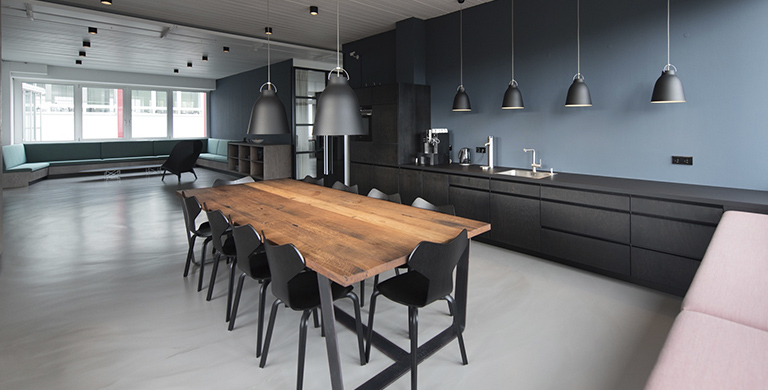
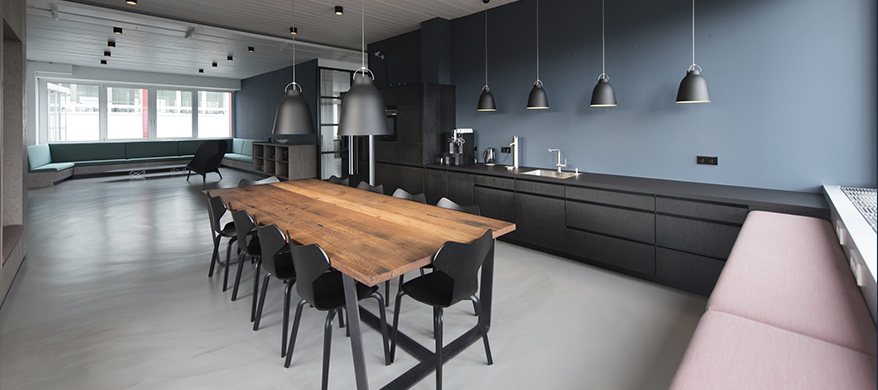
Блок услуги, мобильная версия

diff --git a/source/index.html b/source/index.html
@@ -180,28 +180,40 @@
     <section class="service">
       <h2 class="service-title section-title">Наши услуги</h2>
       <div class="service-slider">
-        <ul class="service-slider__buttons">
-          <li class="service-slider__button">Дизайн жилого помещения</li>
-          <li class="service-slider__button">Дизайн отельных комнат</li>
-          <li class="service-slider__button service-slider__button--active">Дизайн коммерческих
+        <ul class="service-slider__switch-buttons">
+          <li class="service-slider__switch-button">Дизайн жилого помещения</li>
+          <li class="service-slider__switch-button">Дизайн отельных комнат</li>
+          <li class="service-slider__switch-button service-slider__switch-button--active">Дизайн коммерческих
             объектов</li>
-          <li class="service-slider__button">Ремонт под ключ</li>
-          <li class="service-slider__button">Отделочные работы</li>
-          <li class="service-slider__button">Выезд дизайнера на дом</li>
+          <li class="service-slider__switch-button">Ремонт под ключ</li>
+          <li class="service-slider__switch-button">Отделочные работы</li>
+          <li class="service-slider__switch-button">Выезд дизайнера на дом</li>
         </ul>
         <div class="service-slider__slide">
-          <picture>
-            <source type="image/webp" media="(min-width: 1360px)" srcset="img/service-slide-desktop.webp">
-            <source type="image/webp" media="(min-width: 768px)" srcset="img/service-slide-tablet.webp">
-            <source type="image/webp" srcset="img/service-slide-mobile.webp">
+          <!-- <div class="service-slider__image-container">
+            <picture>
+              <source type="image/webp" media="(min-width: 1360px)" srcset="img/service-slide-desktop.webp">
+              <source type="image/webp" media="(min-width: 768px)" srcset="img/service-slide-tablet.webp">
+              <source type="image/webp" srcset="img/service-slide-mobile.webp">
 
-            <source media="(min-width: 1360px)" srcset="img/service-slide-desktop.jpg">
-            <source media="(min-width: 768px)" srcset="img/service-slide-tablet.jpg">
-            <img class="service-slider__image" src="img/service-slide-mobile.jpg" alt="Дизайн коммерческих
-            объектов">
-          </picture>
+              <source media="(min-width: 1360px)" srcset="img/service-slide-desktop.jpg">
+              <source media="(min-width: 768px)" srcset="img/service-slide-tablet.jpg">
+              <img class="service-slider__image" src="img/service-slide-mobile.jpg" alt="Дизайн коммерческих
+              объектов">
+            </picture>
+          </div> -->
+          <div class="service-slider__image-container">
+            <picture>
+              <source type="image/webp" media="(min-width: 1360px)" srcset="img/service-slide-desktop.webp">
+              <source type="image/webp" srcset="img/service-slide-tablet.webp">
+
+              <source media="(min-width: 1360px)" srcset="img/service-slide-desktop.jpg">
+              <img class="service-slider__image" src="img/service-slide-tablet.jpg" alt="Дизайн коммерческих
+              объектов">
+            </picture>
+          </div>
           <h3 class="service-slider__title">Дизайн коммерческих обьектов</h3>
-          <p class="service-slider__text">Работая с коммерческими объектами, студия изучает целевую аудиторию, создаем
+          <p class="service-slider__text">Работая с коммерческими объектами, студия изучает целевую аудиторию, создает
             коммерческие интерьеры такими, чтобы посетители кафе, бара, гостиницы хотели возвращаться в интерьер снова
             и снова</p>
           <span class="service-slider__project-count">532 проекта</span>

diff --git a/source/sass/blocks/service-slider.scss b/source/sass/blocks/service-slider.scss
@@ -1,0 +1,118 @@
+.service-slider__switch-buttons {
+  width: 280px;
+
+  margin: 0;
+  margin-left: 5.3%;
+  margin-bottom: 63px;
+  padding: 0;
+
+  list-style: none;
+}
+
+.service-slider__switch-button {
+  margin-bottom: 31px;
+
+  font-family: "Raleway", "Arial", sans-serif;
+  font-size: 22px;
+  line-height: 26.4px;
+  font-weight: 300;
+
+  cursor: pointer;
+
+  &--active {
+    font-weight: 600;
+    color: #00203a;
+  }
+}
+
+.service-slider__image-container {
+  position: relative;
+  width: 100%;
+  min-height: 390px;
+
+  margin-bottom: 25px;
+}
+
+.service-slider__image {
+  position: absolute;
+  top: 50%;
+  left: 50%;
+  transform: translate(-50%, -50%);
+
+  min-height: 100%;
+  min-width: 878px;
+  height: auto;
+  width: 100%;
+}
+
+.service-slider__title {
+  display: none;
+}
+
+.service-slider__text {
+  margin: 0;
+  margin-right: 5.3%;
+  margin-left: 4.5%;
+  margin-bottom: 44px;
+
+  font-size: 20px;
+  line-height: 30px;
+  font-weight: 300;
+  color: #5e5e5e;
+}
+
+.service-slider__project-count {
+  display: none;
+}
+
+.service-slider__button {
+  display: block;
+  box-sizing: border-box;
+  width: 216px;
+
+  margin: 0 auto;
+  padding-top: 19px;
+  padding-right: 24px;
+  padding-left: 36px;
+  padding-bottom: 15px;
+
+  font-family: "Raleway", "Arial", sans-serif;
+  font-size: 15px;
+  line-height: 18px;
+  font-weight: 600;
+  color: #00203a;
+  text-transform: uppercase;
+  letter-spacing: 2.1px;
+
+  border: 2px solid #112537;
+}
+
+@media (min-width: $tablet-width) {
+  .service-slider {
+    margin: 0 auto;
+    width: 690px;
+  }
+
+  .service-slider__title {
+    display: block;
+  }
+
+  .service-slider__switch-buttons {
+    display: flex;
+    flex-wrap: wrap;
+    align-items: flex-start;
+
+    width: auto;
+    margin: 0;
+    margin-bottom: 24px;
+  }
+
+  .service-slider__switch-button {
+    width: 340px;
+    margin-bottom: 65.5px;
+  }
+
+  .service-slider__switch-button:nth-child(2n) {
+    padding-left: 3px;
+  }
+}

diff --git a/source/sass/blocks/portfolio.scss b/source/sass/blocks/portfolio.scss
@@ -1,3 +1,7 @@
+.portfolio {
+  margin-bottom: 53px;
+}
+
 .portfolio__title {
   width: 316px;
 
@@ -35,6 +39,10 @@
 }
 
 @media (min-width: $tablet-width) {
+  .portfolio {
+    margin-bottom: 154px;
+  }
+
   .portfolio__title {
     margin-left: 12px;
     margin-bottom: 40px;

diff --git a/source/sass/blocks/service.scss b/source/sass/blocks/service.scss
@@ -1,0 +1,15 @@
+.service-title {
+  width: 316px;
+  margin-bottom: 35px;
+}
+
+@media (min-width: $tablet-width) {
+  .service-title {
+    width: 450px;
+
+    margin-bottom: 47px;
+    margin-left: 39px;
+
+    text-align: left;
+  }
+}

diff --git a/source/sass/style.scss b/source/sass/style.scss
@@ -18,4 +18,6 @@
   "blocks/section-title",
   "blocks/portfolio",
   "blocks/portfolio-slider",
-  "blocks/portfolio-slide.scss";
+  "blocks/portfolio-slide",
+  "blocks/service",
+  "blocks/service-slider";

diff --git a/source/sass/blocks/portfolio-slide.scss b/source/sass/blocks/portfolio-slide.scss
@@ -203,6 +203,7 @@
 
     border-radius: 50%;
     background-color: rgba(254, 188, 128, 0.95);
+    box-shadow: 4.5px 7.794px 20.88px 8.12px rgba(0, 1, 6, 0.07);
   }
 
   .portfolio-slide__link::before,
